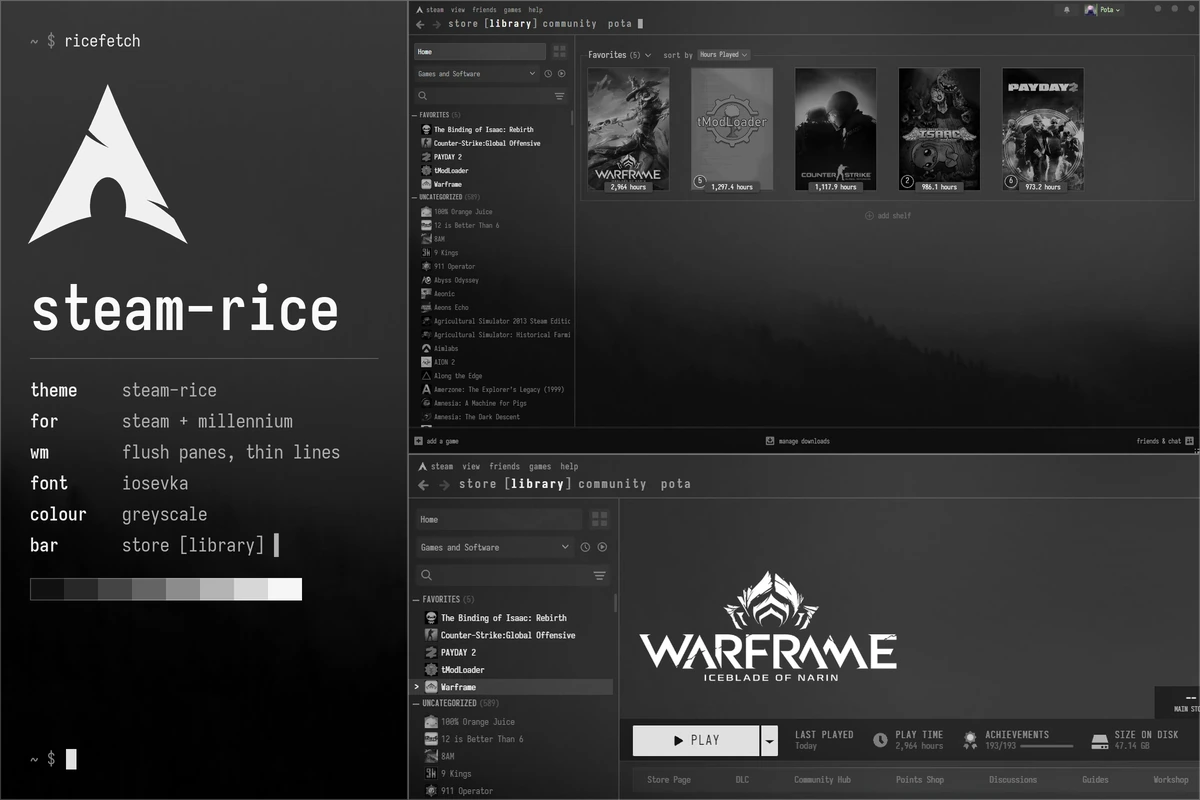
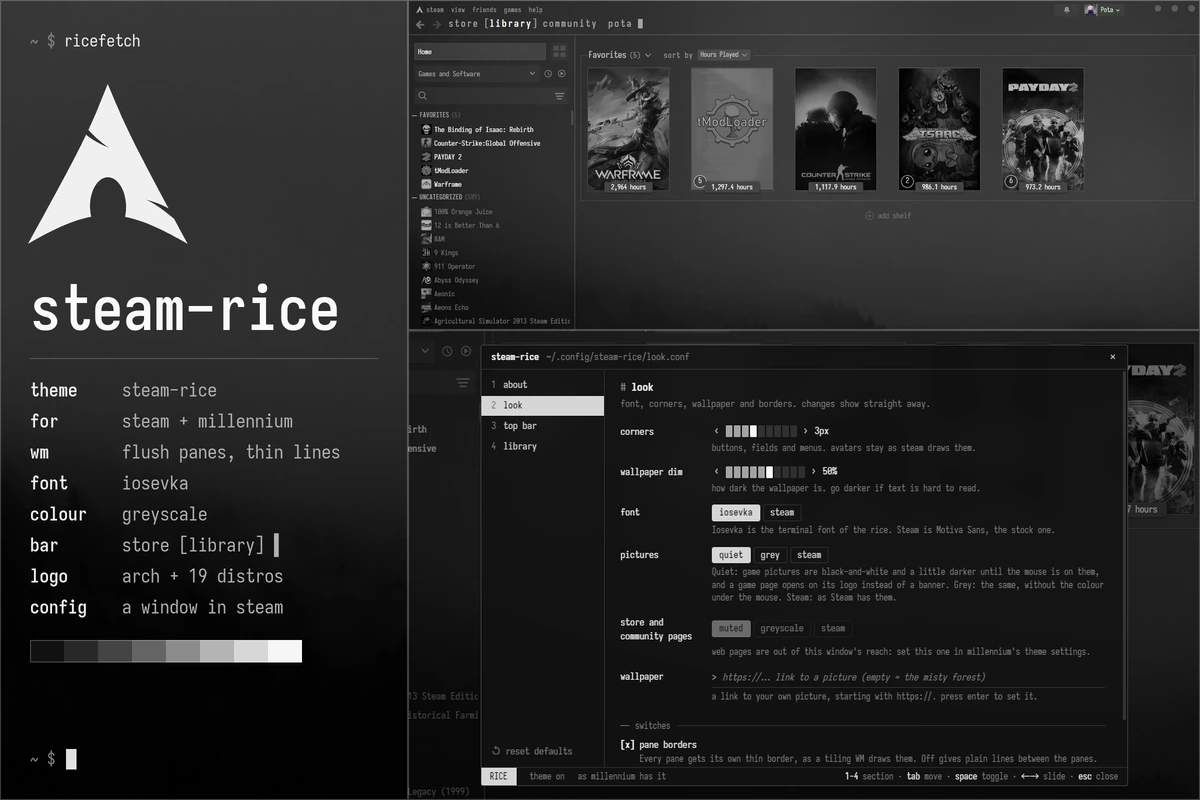
Store card and README show the settings window

Changed region(s): [[0.3392, 0.4062, 1.0, 1.0], [0.0308, 0.7188, 0.2775, 0.8438]]

diff --git a/README.md b/README.md
@@ -6,11 +6,14 @@ Steam made to look like a tiling-WM Linux rice: a theme for [Millennium](https:/
 
 ![a game's page: its logo on the wallpaper instead of a banner](assets/game.webp)
 
+![The steam-rice window on its look tab: a tab list on the left, block sliders for corners and wallpaper dim, choices as chips and [x] switches](assets/settings.webp)
+
 ![Big Picture mode: the same greys, font and quiet pictures](assets/bigpicture.webp)
 
 ## What it does
 
 - **Tiled.** One misty wallpaper behind the library. The top bar, the game list, the page and the bottom bar are panes that touch, each with a thin border, as a tiling WM draws them. No gaps, gradients or shadows.
+- **Its own settings window.** A rice bowl button in the top bar opens a small terminal-style settings tool inside Steam, with every option, sliders and `[x]` switches. Changes show straight away. See [Options](#options).
 - **Terminal touches.** The open tab stands in `[brackets]` with a cursor blinking after the tabs, the open game has a `>` in front, and each shelf on the library home is a thin box with its name set into the top line. The Steam menu button wears your distro's logo: Arch by default, with nineteen others and Steam's own to pick from.
 - **Greyscale.** Steam's blue-grey is gone everywhere: library, settings, menus, downloads, friends. Only things that mean something (playing, online, danger) keep a colour, muted.
 - **Quiet pictures.** Steam's library is a wall of cover art. Here covers are black-and-white and a little darker, and show their colours while the mouse is on them. People's avatars and their frames are left in colour. A game's page shows its logo on the wallpaper instead of a banner. The "What's New" strip is hidden.
@@ -48,8 +51,6 @@ Download this repo (**Code → Download ZIP**), unzip it, and put the folder int
 ## Options
 
 The easy way is inside Steam: the **rice bowl button** in the top bar, left of the bell, opens the steam-rice window, a small terminal-style settings tool with every option below. Changes show straight away, in every Steam window.
-
-![The steam-rice window on its look tab: a tab list on the left, block sliders for corners and wallpaper dim, choices as chips and [x] switches](assets/settings.webp)
 
 - Keys: `1`-`4` pick a tab, `Tab` moves, `Space` toggles, `←` `→` move a slider, `Esc` closes.
 - What you pick there is laid over the theme settings in Millennium, not written into them. **reset defaults** (click it twice) forgets it all and hands the theme back to Millennium.
